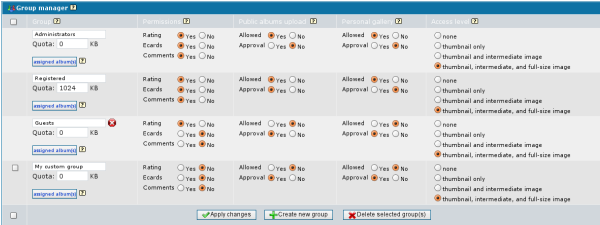
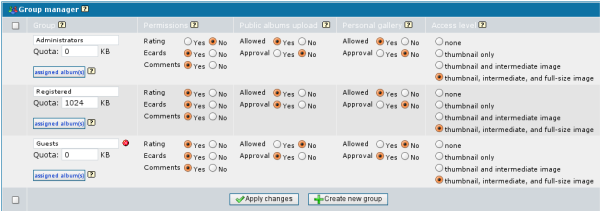
Replaced outdated screenshots

diff --git a/cpg1.5.x/docs/en/users.htm b/cpg1.5.x/docs/en/users.htm
@@ -43,7 +43,7 @@
 <p>The user control panel can be found when clicking "users" from the admin menu. It is the place where you create and manage your users.</p>
 <p class="cpg_message_info">If you have enabled integration (bridging) Coppermine with another application (e.g. your favorite BBS app), Coppermine will use the member table of the application you bridged with (your BBS), so the built-in Coppermine user management will be disabled in favor of the user management that comes with the bridged application. This has been incorporated to eliminate redundancy and facilitate a seemless integration.<br />
 As a result, you will not have this user control panel; clicking the "users" link will send you to your bridge application's user management instead.</p>
-<img src="images/usermgr.gif" width="600" height="550" border="0" alt="" title="user control panel" /><br />
+<img src="images/usermgr.png" width="600" height="260" border="0" alt="" title="user control panel" /><br />
 
 
 
@@ -70,7 +70,7 @@ As a result, you will not have this user control panel; clicking the "users" lin
 <p>This does of course not apply if you have bridging enabled, as user management is being handled by the app you have bridged coppermine with. In this case, the user management screen of your bridged app should show - create a new user there.</p>
 <a name="user_cp_new_end"></a>
 <a name="user_cp_edit"></a><h2>Editing users<a href="#user_cp_edit" title="Link to this section"><img src="images/anchor.gif" width="15" height="9" border="0" alt="" /></a></h2>
-<p><img src="images/usermgr_edit.gif" width="294" height="329" border="0" alt="" align="right" />To edit the properties of a user, click the <img src="images/edit.gif" width="16" height="16" border="0" alt="" title="edit" />-button next to the user name. You will then find a page where you can modify all user profile fields the user has. This includes the option to change the password of that user. If you don't want to change a user's password, leave the password field blank.<br />
+<p><img src="images/usermgr_edit.png" width="300" height="382" border="0" alt="" align="right" />To edit the properties of a user, click the <img src="images/edit.gif" width="16" height="16" border="0" alt="" title="edit" />-button next to the user name. You will then find a page where you can modify all user profile fields the user has. This includes the option to change the password of that user. If you don't want to change a user's password, leave the password field blank.<br />
 The dropdown list determines the primary group the user is in, the checkboxes beneath it determine the secondary groups.</p>
 <p>Please note that this screen (as well as the rest of Coppermine's user management) will not be available if you have enabled <a href="bridging.htm#integrating">bridging</a>, because then the user management of the application you have bridged with (e.g. your BBS) kicks in and handles everything related to user management.</p>
 <a name="user_cp_edit_permission_by_group"></a><h3>Album permissions by group<a href="#user_cp_edit_permission_by_group" title="Link to this section"><img src="images/anchor.gif" width="15" height="9" border="0" alt="" /></a></h3>

diff --git a/cpg1.5.x/docs/en/configuration.htm b/cpg1.5.x/docs/en/configuration.htm
@@ -140,7 +140,7 @@ You can toggle between these options (enabled or disabled) on the <a href="uploa
 
 
 <a name="admin_language"></a><h2>Language &amp; Charset settings<a href="#admin_language" title="Link to this section"><img src="images/anchor.gif" width="15" height="9" border="0" alt="" /></a></h2>
-<p><img src="images/config_language.gif" width="600" height="170" border="0" alt="" align="right" />This the the config section where you can set up the language settings. Make sure to read this section carefully before changing anything here.</p>
+<p>This the the config section where you can set up the language settings. Make sure to read this section carefully before changing anything here.</p>
 <p>All language files are stored in the <strong>lang</strong> directory on your server.</p>
 <p>Languages and internationalization (often refered to as i18n) is a complicated and complex thing. You (as Coppermine admin) probably don't want to go into details, so this documentation skips the in-depth issues existing with i18n and just gives you an overview how Coppermine handles languages.</p>
 

diff --git a/cpg1.5.x/docs/en/groups.htm b/cpg1.5.x/docs/en/groups.htm
@@ -41,7 +41,7 @@
 <a name="groups"></a><h1>Groups<a href="#groups" title="Link to this section"><img src="images/anchor.gif" width="15" height="9" border="0" alt="" /></a></h1>
 
 <a name="group_cp"></a><h2>The group control panel<a href="#group_cp" title="Link to this section"><img src="images/anchor.gif" width="15" height="9" border="0" alt="" /></a></h2>
-<p><img src="images/group_cp.png" width="600" height="225" border="0" alt="" align="right" /></p>
+<p><img src="images/group_cp.png" width="600" height="211" border="0" alt="" align="right" /></p>
 <p>This is where you define what members of a user <em>group</em> can and can't do. In Coppermine, you don't assign privileges to individual users, but to groups. Users can be in various groups, so you can determine granular levels of permissions.</p>
 
 
